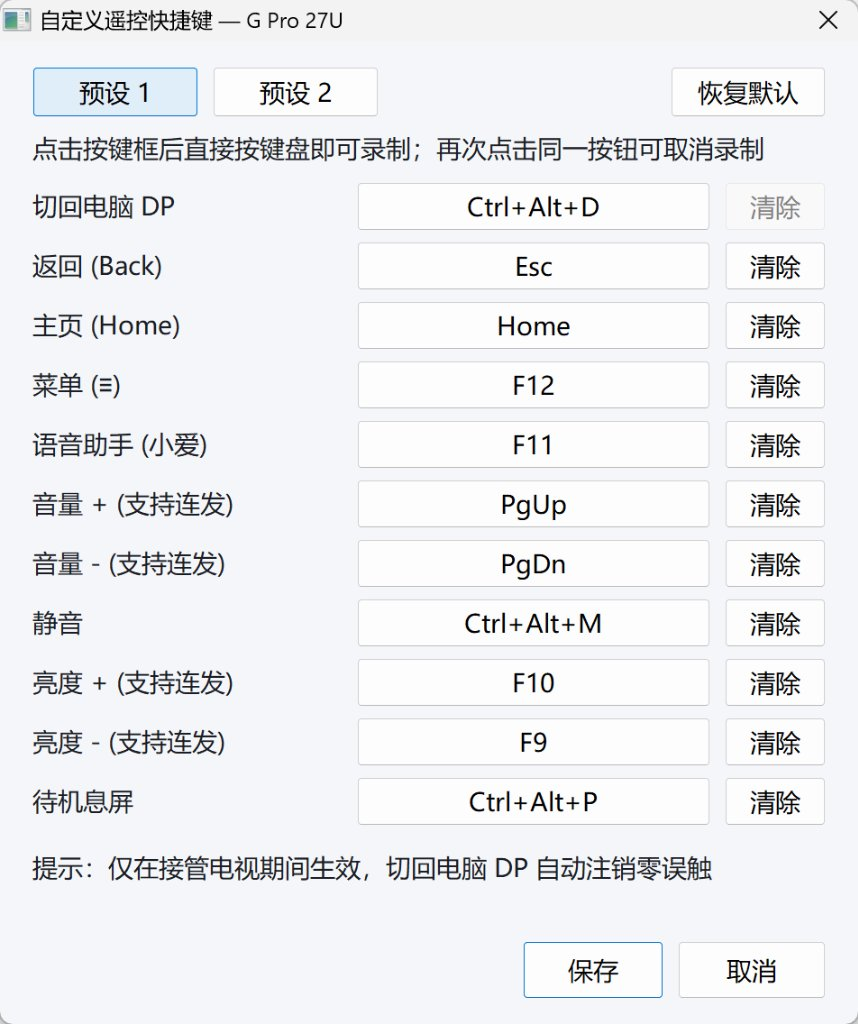
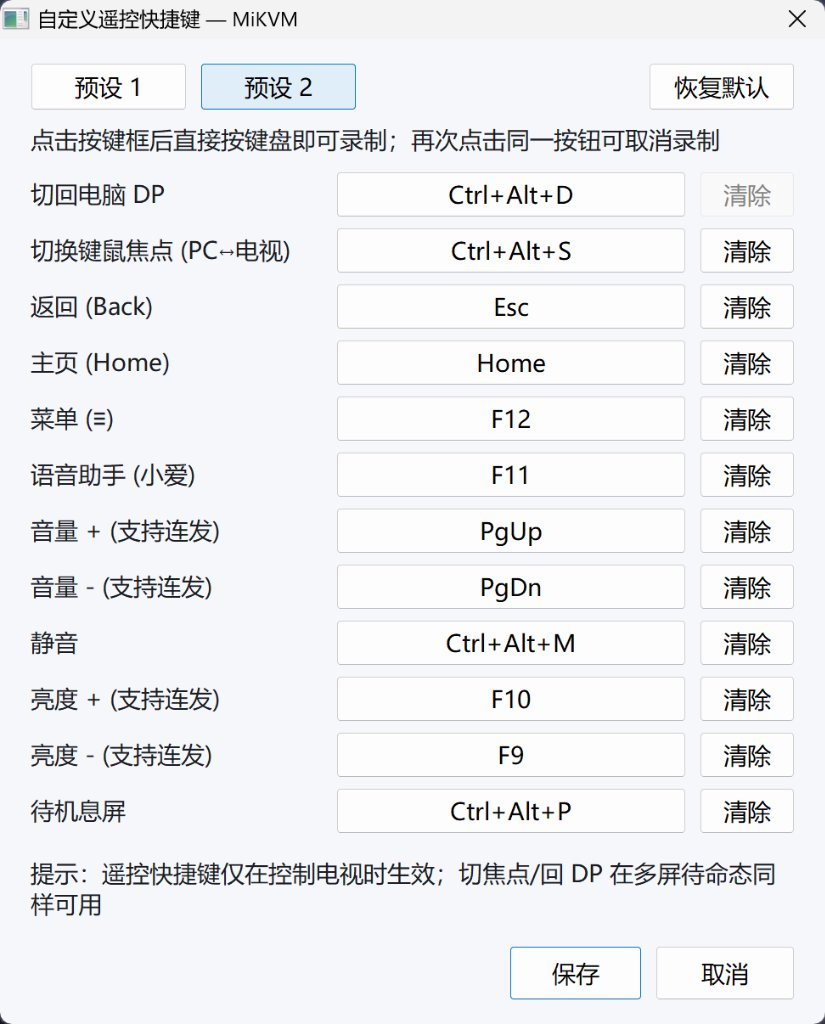
chore(release): v2.1.0 screenshots, README highlights, and version bump

diff --git a/README.md b/README.md
@@ -6,7 +6,7 @@
 
 一款专为 **Redmi 显示器 G Pro 27U（MiTV-MFFU1 / beekeeper）** 及小米澎湃OS智能显示器打造的极轻量 **Windows 11 托盘切换器与多屏跨系统软件 KVM**。
 
-无需遥控器、无需硬件 USB 切换器、不挑电脑键鼠——在电脑右下角即可一键切换 **电视系统 / 电脑 DP / HDMI 1 / HDMI 2**、**6–10 ms 毫秒级调节真实硬件背光与音量**，并通过纯 Rust **直连 `scrcpy-server` 控制通道**实现多屏无缝跨系统 KVM：显示器在看电视时，笔记本仍可自由办公，**鼠标滑过屏幕边缘或按快捷键即可在 Windows 与 Android TV 之间无缝穿梭**，支持双向等高滑边、可调防误触推力、按需剪贴板同步，且对电脑端中文输入法零打扰。
+无需遥控器、无需硬件 USB 切换器、不挑电脑键鼠——在电脑右下角即可一键切换 **电视系统 / 电脑 DP / HDMI 1 / HDMI 2**、**6–10 ms 毫秒级调节真实硬件背光与音量**，并通过纯 Rust **直连 `scrcpy-server` 控制通道**实现多屏无缝跨系统 KVM：显示器切到电视系统观影时，笔记本（或副屏）仍可自由办公，**鼠标滑过屏幕边缘或按快捷键即可在 Windows 与 Android TV 之间无缝穿梭**，支持双向等高滑边、可调防误触推力、按需剪贴板同步，且对电脑端中文输入法零打扰。
 
 ## 界面预览
 
@@ -17,8 +17,8 @@
       <sub><b>Win11 原生圆角托盘浮窗</b></sub>
     </td>
     <td align="center" width="33%">
-      <img src="docs/screenshots/settings.png" alt="ADB 与多屏键鼠设置" /><br />
-      <sub><b>ADB 与多屏键鼠设置</b></sub>
+      <img src="docs/screenshots/settings.jpg" alt="ADB 与多屏键鼠设置" /><br />
+      <sub><b>ADB 与多屏键鼠设置（含双向推力）</b></sub>
     </td>
     <td align="center" width="33%">
       <img src="docs/screenshots/keymap.jpg" alt="自定义遥控快捷键" /><br />
@@ -29,34 +29,40 @@
 
 ---
 
+## v2.1 新特性一览
+
+- **直连 `scrcpy-server` 引擎**：彻底移除 `scrcpy.exe` / SDL3 / FFmpeg 隐形窗口，纯 Rust 直连控制通道，省去约 30 MB 内存与额外进程，**彻底消除 Windows 焦点闪烁与中文输入法切换异常**，并自动探测适配 `scrcpy 3.0 ~ 5.x+` 任意版本。
+- **多屏双向无缝滑边 + 单帧等高对齐（免 Root）**：内置极轻 `MiTVEdge.jar`（6.8 KB，开源源码见 [assets/MiTVEdge.java](assets/MiTVEdge.java)）3px 透明边沿传感器，鼠标可在电脑与电视之间双向平滑穿梭；切入电视采用预激发单帧突发算法，光标在首帧即以 **`±1px` 精度**直达对应高度、无可见跳变。
+- **自定义双向撞边推力（`0~300`）**：支持分别微调 `电脑 → 电视` 与 `电视 → 电脑` 推力阻力（`0` 为一碰即过，带 `260ms` 停顿衰减防误触）；扩展屏采用弹性边界阻尼，且拖拽窗口与全屏游戏期间自动暂停跨边。
+- **一键切焦点 + 双端对称光标记忆 + 智能单/多屏切换**：按 `Ctrl + Alt + S`（可自定义）随时在电脑与电视间切焦点，双方各自保留离开前的光标位置；控制电视时自动隐身电脑光标并抑制 Windows 5 连 Shift 粘滞键弹窗；笔记本合盖或「仅第二屏幕」自动进入单屏独占模式，开盖即时恢复多屏。
+- **可选临时「仅电脑屏幕」防幽灵屏**：默认保持扩展模式零闪屏；若希望切电视时自动屏蔽不可见的显示器桌面区域，可在设置中勾选「切电视时自动临时切为仅电脑屏幕（回 DP 自动还原）」。
+- **PC ↔ TV 按需剪贴板同步**：自动双向同步文本剪贴板，并自动过滤密码管理器标记的敏感隐私剪贴板格式。
+- **Win11 浅色 / 深色主题自动跟随**：浮窗、托盘图标、设置页与快捷键录制框均自动跟随 Windows 11 系统浅色/深色主题与圆角动效；多屏下所有弹窗始终定位在可见电脑屏。
+
+---
+
 ## 核心特性
 
-- **极简 Windows 11 原生圆角浮窗（自动跟随浅色 / 深色主题）**
+- **极简 Windows 11 原生体验**
   - 纯 Rust + Win32 / GDI+ 打造（仅单一依赖 `windows-sys`），**零运行库依赖**（不依赖 `.NET` / VC++ / WebView2 / Electron）。
-  - 单文件仅 **~500 KB**，待机 CPU **0%**，自动同步 Windows 11 浅色/深色系统主题与任务栏托盘图标配色；多屏场景下浮窗与设置框始终弹出在可见电脑屏，永不迷失在幽灵电视屏。
-  - 左键托盘图标弹出控制面板，实时区分「控制电视中 / 电视待命 (焦点在电脑) / 已连接」状态；未连接（红点）时直接点击顶部状态行即可一键重连。
-- **直连 `scrcpy-server` 多屏无缝跨系统 KVM（零硬件、零输入法闪烁）**
-  - 原生 Rust 直连电视端 `scrcpy-server` 控制通道（`video=false audio=false`），**彻底免除 `scrcpy.exe` / SDL3 / FFmpeg 额外进程与内存占用**，不抢占 Windows 焦点，电脑中文输入法（小狼毫 / 微软拼音）零切换、零闪烁；同时自动抑制控制电视期间的 5 连 Shift 粘滞键弹窗。
-  - **双向无缝滑边 + 单帧高度对齐（免 Root）**：内置极轻 `MiTVEdge.jar`（6.8 KB，开源源码见 [assets/MiTVEdge.java](assets/MiTVEdge.java)），鼠标在笔记本与电视之间双向平滑穿梭，切入电视采用预激发单帧突发算法，光标在首帧以 `±1px` 精度直达对应高度、无可见跳变；支持独立微调 `电脑 → 电视` 与 `电视 → 电脑` 撞边推力（`0~300`，带停顿衰减防误触），且全屏游戏/拖拽窗口时自动暂停跨边。
-  - **一键切焦点 & 单屏智能锁定**：多屏待命时随时可按 `Ctrl + Alt + S`（可自定义）在电脑与电视间自由切换焦点并各自记忆光标位置；控制电视期间自动隐藏电脑光标。若笔记本合盖或处于「仅第二屏幕」，自动锁死为单屏独占电视，开盖即时恢复多屏。
-  - **可选临时「仅电脑屏幕」防幽灵屏**：默认保持 Windows 扩展模式零闪屏；也支持在设置中勾选「切电视时自动临时切为仅电脑屏幕（回 DP 还原）」。
-  - **PC ↔ TV 按需剪贴板同步**：自动同步普通文本剪贴板，并自动过滤密码管理器标记的隐私/敏感剪贴板格式。
+  - 单文件仅 **~500 KB**，待机 CPU **0%**，零常驻残留子进程。
+  - 左键托盘图标弹出圆角控制面板，实时区分「控制电视中 / 电视待命 (焦点在电脑) / 已连接」状态；未连接（红点）时直接点击顶部状态行即可一键重连。
 - **毫秒级硬件背光 & 音量直调（按需常驻，待机 0 额外内存）**
   - 内置轻量 `MiTVDaemon.jar`（3 KB，开源源码见 [assets/MiTVDaemon.java](assets/MiTVDaemon.java)）：打开浮窗或进入电视会话时自动预热，拖动滑块单次写入延迟仅 **~6–10 ms**，松手后自动同步系统 PQ / 设置记账；空闲 25 秒自动退出，待机零残留。
-  - 兼容免 Root 音量调节回退（`cmd media_session`）。
+  - 兼容免 Root 音量调节回退（`cmd media_session`），并显示电视原生 OSD 音量条。
 - **可视化自定义遥控快捷键 + 原生小爱远场语音**
   - 在「ADB 设置... → 自定义快捷键...」中支持 **点击录制按键**、冲突检测、防误录保护，以及一键切换 **预设 1 / 预设 2**。
-  - 所有遥控键仅在控制电视时生效（`切焦点` 与 `切回电脑 DP` 在多屏待命时亦全局可用），切回 DP 自动卸载全部钩子，绝不影响游戏与日常办公。
+  - 遥控键仅在控制电视时生效，`切焦点` 与 `切回电脑 DP` 在多屏待命态同样全局可用；切回 DP 后自动卸载全部钩子，绝不影响游戏与日常办公。
   - 默认键位（均支持自由修改或清空）：
     - `Ctrl + Alt + S`：多屏模式下在电脑与电视间一键切换键鼠焦点（保持电视画面）
     - `Ctrl + Alt + D`：任意界面一键释控并切回电脑 DP
-    - `↑ / ↓ / ← / →` / `Enter` / 鼠标滚轮：方向键与确认（滚轮默认映射为电视上下/左右方向键）
+    - `↑ / ↓ / ← / →` / `Enter` / 鼠标滚轮：方向键与确认（鼠标滚轮默认映射为电视上下/左右方向键）
     - `Esc` / 鼠标后退侧键：返回（`KEYCODE_BACK`）
     - `Home` / 鼠标中键或前进侧键：主页（`KEYCODE_HOME`）
     - `F12`：小米遥控器菜单键 `≡`（`KEYCODE_MENU`）
     - `F11`：**小爱语音助手**（调用原厂 `ONBOARD_MIC_START` 直接启用显示器自带远场麦克风收音，**免 Root**，单按即说、说完自动断句）
     - `PgUp` / `PgDn`：电视音量 `+` / `-`（支持长按连发）
-    - `Ctrl + Alt + ↑ / ↓`：显示器硬件亮度 `+` / `-`（步进 5%，支持长按连发）
+    - `Ctrl + Alt + ↑ / ↓`（预设 2 为 `F10 / F9`）：显示器硬件亮度 `+` / `-`（步进 5%，支持长按连发）
     - `Ctrl + Alt + M`：静音；`Ctrl + Alt + P`：电源息屏待机
 
 ---
@@ -71,11 +77,11 @@
 | :--- | :---: | :---: |
 | 信号源切换（电视 / DP / HDMI 1 / HDMI 2） | ✅ | ✅ |
 | 直连 `scrcpy-server` 无线键鼠控制 + 自定义快捷键 | ✅ | ✅ |
-| 多屏双向滑边跨屏（`MiTVEdge.jar`）+ 单帧高度对齐 | ✅ | ✅ |
+| 多屏双向滑边跨屏（`MiTVEdge.jar`）+ 单帧等高对齐 | ✅ | ✅ |
 | 电脑 ↔ 电视剪贴板按需同步（自动隐私过滤） | ✅ | ✅ |
 | 小爱机身远场语音助手（`F11`） | ✅ | ✅ |
 | 电视音量调节（`PgUp/PgDn` 及面板音量滑块） | ✅ | ✅（6–10 ms 桥接） |
-| 真实硬件背光直写（面板背光滑块 + `Ctrl+Alt+↑/↓`） | — | ✅（6–10 ms 桥接） |
+| 真实硬件背光直写（面板背光滑块 + 亮度快捷键） | — | ✅（6–10 ms 桥接） |
 
 ### 2. 电脑端
 - **Windows 10 / 11**（纯原生 Win32 可执行文件，零运行库；对电脑键鼠类型、连接方式与配列无任何限制）。

diff --git a/AGENTS.md b/AGENTS.md
@@ -66,7 +66,7 @@ MiKVM/
 │   └── VolDirectTool.jar          # Fallback AudioManager volume tool (MIT, redmi-g-pro-27u-monitorswitch)
 ├── docs/
 │   ├── ARCHITECTURE.md            # Detailed human-facing architecture & macOS porting guide
-│   └── screenshots/               # README showcase screenshots (flyout.jpg, settings.png, keymap.jpg)
+│   └── screenshots/               # README showcase screenshots (flyout.jpg, settings.jpg, keymap.jpg)
 ├── extras/
 │   └── Fcitx5TvFix/               # Optional Xposed/Vector module source fixing Fcitx5 on HyperOS TV
 ├── .github/workflows/release.yml  # CI build + automatic dual-zip GitHub Release publisher
